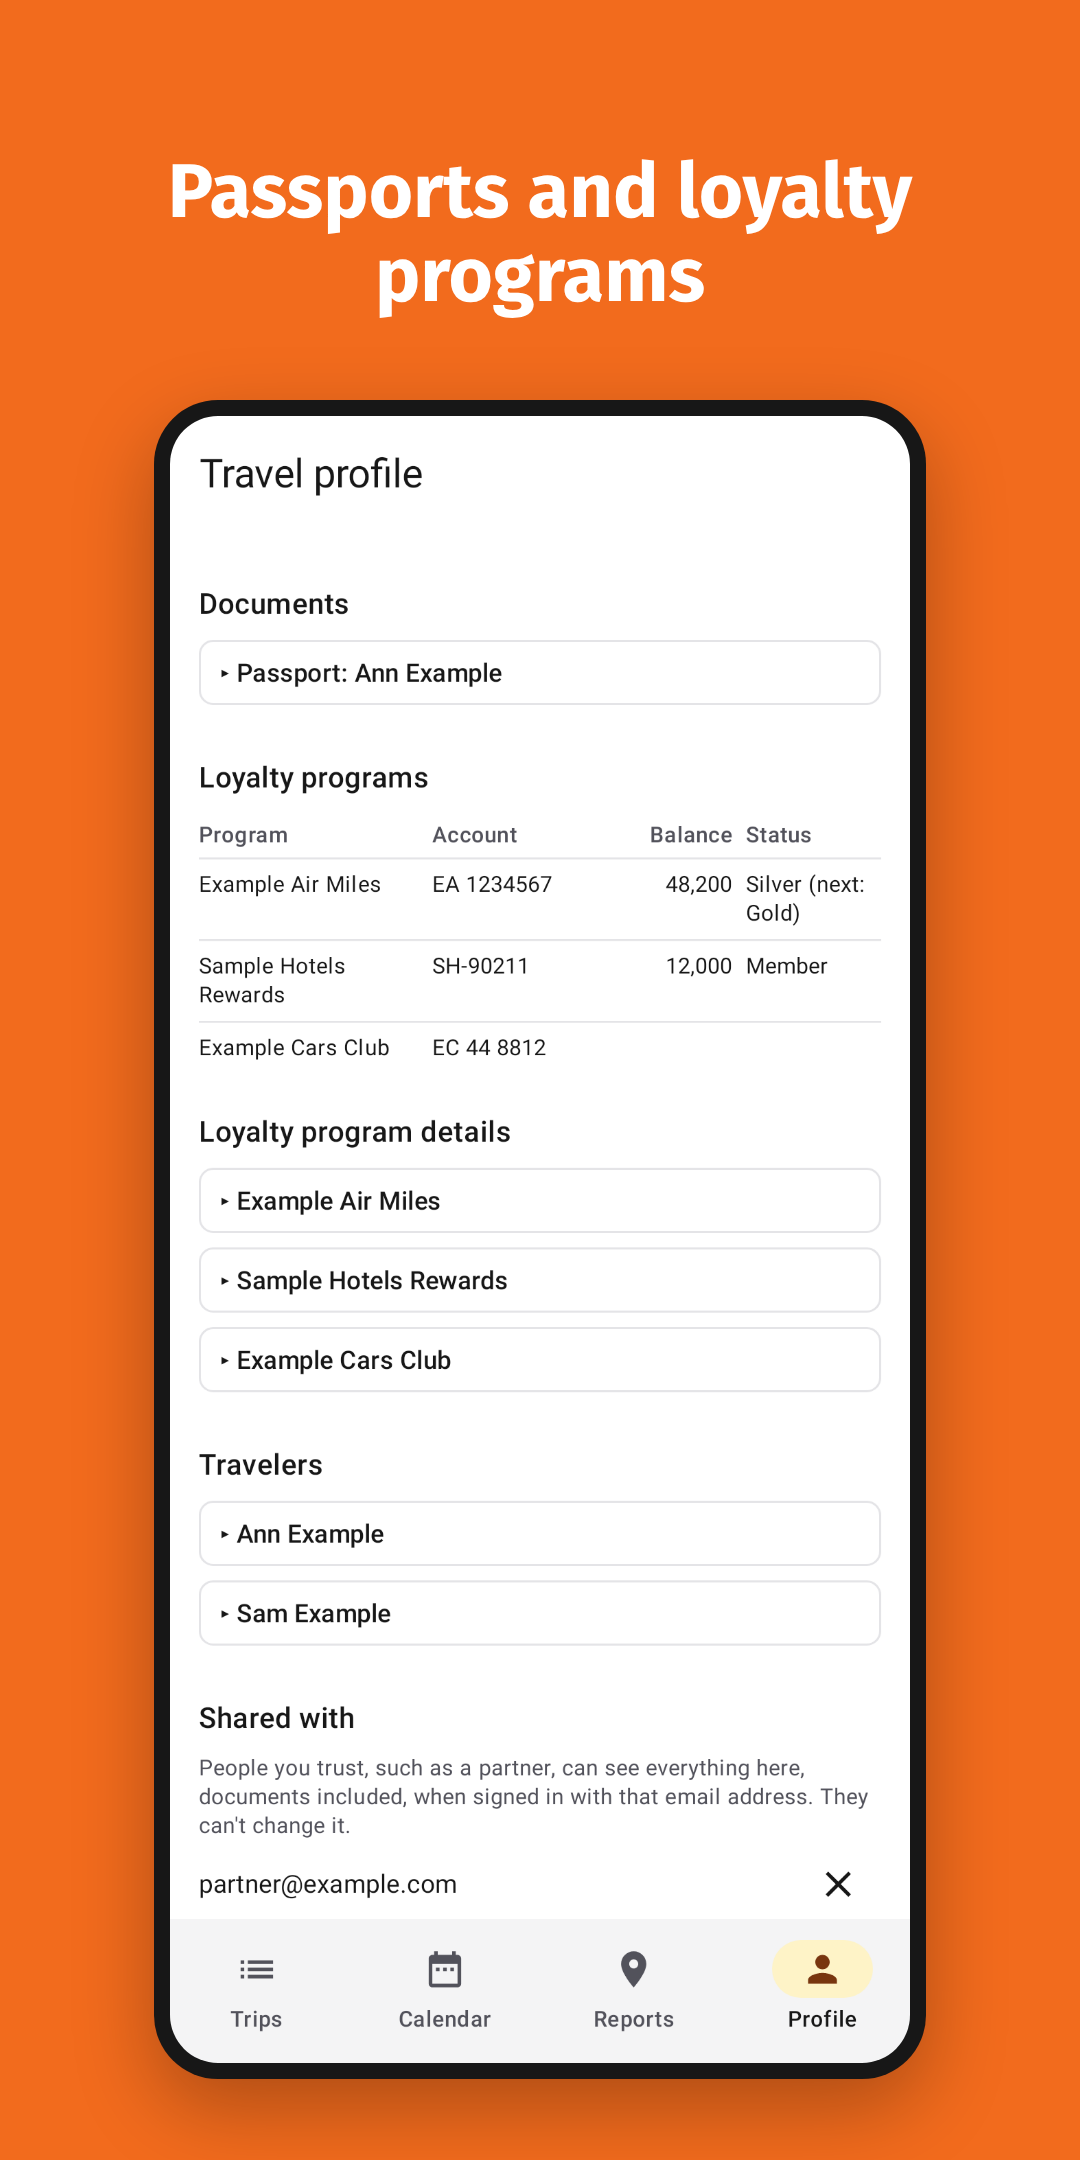
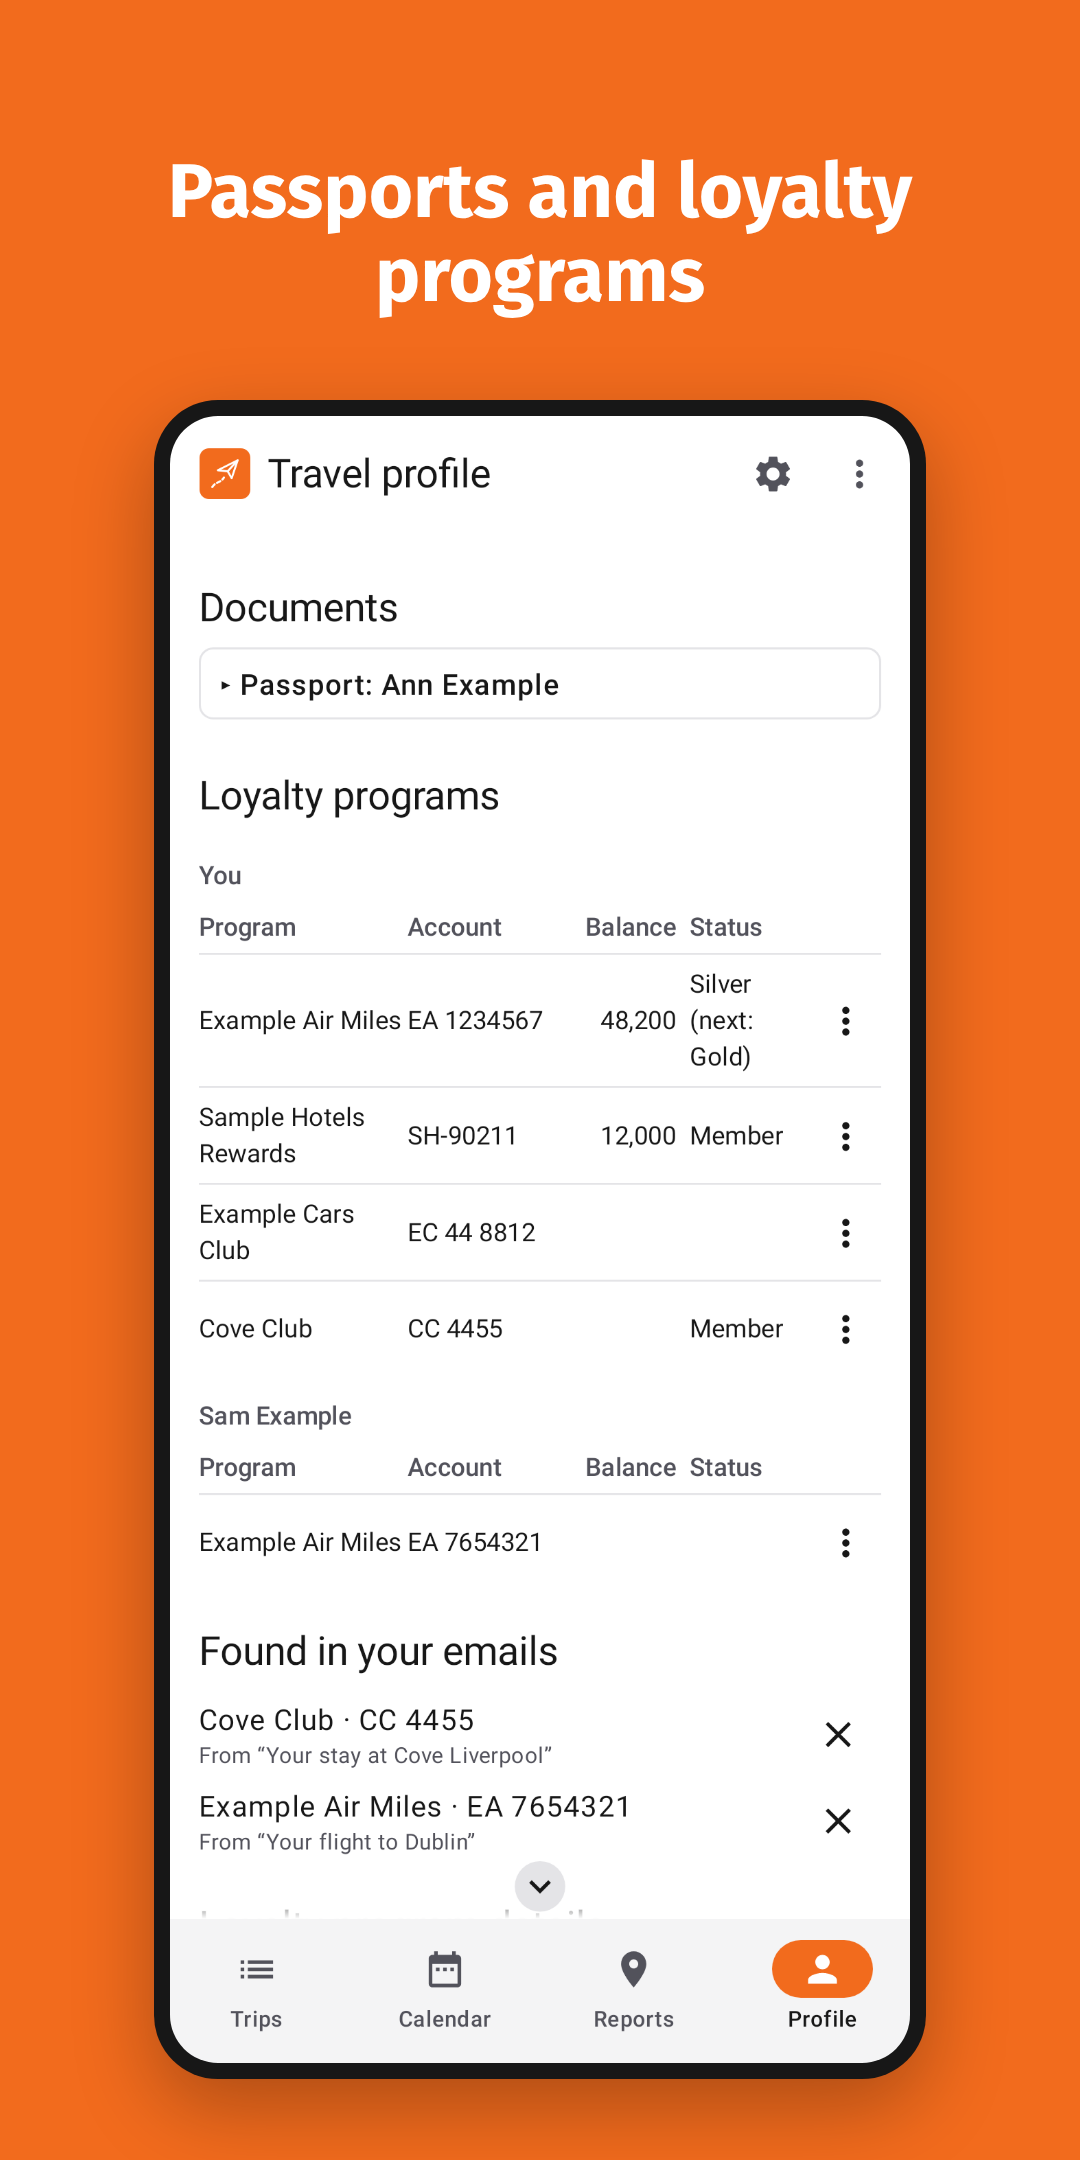
Refresh the Play screenshots, with a trip to Paris
The listing's screenshots predated the orange tab, the logo in every top
bar and the Settings gear on every tab. They now match the app.

The shared trip they show was Edinburgh, a UK trip with a passport
warning that made no sense. It is now Paris, with an Air France flight
from Heathrow and a hotel in France; the March trip that was Paris is
Amsterdam, and the residence test that needed a booking with no place
brings its own.

Claude-Session: https://claude.ai/code/session_016zevajYPsBSWPhGmx6eWLR

diff --git a/apps/android/app/src/test/kotlin/app/travelmo/ui/ResidenceDaysTest.kt b/apps/android/app/src/test/kotlin/app/travelmo/ui/ResidenceDaysTest.kt
@@ -13,6 +13,9 @@ import androidx.compose.ui.test.performClick
 import androidx.compose.ui.test.performScrollTo
 import androidx.test.ext.junit.runners.AndroidJUnit4
 import app.travelmo.core.HomeCorrection
+import app.travelmo.core.Segment
+import app.travelmo.core.SegmentType
+import app.travelmo.core.Trip
 import app.travelmo.data.RideSettings
 import app.travelmo.ui.theme.TravelmoTheme
 import kotlin.time.Instant
@@ -35,8 +38,8 @@ class ResidenceDaysTest {
 
     @Test
     fun `counts time away for UK settlement and days in for Schengen, from home and the trips`() {
-        // Without the Edinburgh stay, whose booking names no place.
-        val store = FakeTripStore(trips = fixtureTrips.filter { it.id != "edinburgh" })
+        // Without the Paris trip, under way.
+        val store = FakeTripStore(trips = fixtureTrips.filter { it.id != "paris" })
         store.rides.value = RideSettings(homes = listOf(HomeCorrection("London", "GB", "2020-01-01")))
         show(store)
         composeRule.onNodeWithText("Residence and visa days").performScrollTo()
@@ -51,20 +54,23 @@ class ResidenceDaysTest {
 
     @Test
     fun `counts UK settlement from the move to the UK and lists the days it can't place`() {
-        // The Edinburgh stay's booking names no place.
-        val store = FakeTripStore()
+        // A weekend whose stay names no place.
+        val store = FakeTripStore(
+            trips = fixtureTrips + Trip("weekend", "Weekend away", "2026-10-09", "2026-10-11", OWNER),
+            segments = fixtureSegments + ("weekend" to listOf(Segment("w-stay", "weekend", SegmentType.LODGING, "Example Inn", "2026-10-09T15:00:00+00:00", "2026-10-11T11:00:00+00:00"))),
+        )
         store.rides.value = RideSettings(homes = listOf(HomeCorrection("London", "GB", "2024-03-03")))
         show(store)
         composeRule.onNodeWithText("Since you moved to the UK on 3 Mar 2024").performScrollTo()
         composeRule.onNodeWithText("Days we can't place").performScrollTo()
         // Listed there, and as time away.
-        composeRule.onAllNodesWithText("31 Oct – 1 Nov 2026 · 2 days · Edinburgh").assertCountEquals(2)
+        composeRule.onAllNodesWithText("9–11 Oct 2026 · 3 days · Weekend away").assertCountEquals(2)
         composeRule.onNodeWithText("Give these trips' bookings a place, or set home on your Profile.").performScrollTo()
     }
 
     @Test
     fun `counts to a day picked instead of today`() {
-        val store = FakeTripStore(trips = fixtureTrips.filter { it.id != "edinburgh" })
+        val store = FakeTripStore(trips = fixtureTrips.filter { it.id != "paris" })
         store.rides.value = RideSettings(homes = listOf(HomeCorrection("London", "GB", "2020-01-01")))
         show(store)
         composeRule.onNodeWithText("4 of 180 days · 176 days left").performScrollTo()

diff --git a/apps/android/app/src/test/kotlin/app/travelmo/ui/Fixtures.kt b/apps/android/app/src/test/kotlin/app/travelmo/ui/Fixtures.kt
@@ -70,7 +70,7 @@ import kotlinx.coroutines.flow.update
 
 // The invented trips of design/android's boards, as the screenshot tests
 // render them: the owner is "owner", today is 1 November 2026, and the
-// Edinburgh trip is someone else's, shared with the owner.
+// Paris trip is someone else's, shared with the owner.
 
 const val OWNER = "owner"
 const val OWNER_EMAIL = "owner@example.com"
@@ -80,12 +80,12 @@ private fun trip(id: String, title: String, start: String, end: String, owner: S
     Trip(id, title, start, end, owner, sharedWith = if (owner == OWNER) emptyList() else listOf(OWNER_EMAIL), deleting = deleting)
 
 val fixtureTrips = listOf(
-    trip("edinburgh", "Edinburgh", "2026-10-31", "2026-11-03", owner = "partner"),
+    trip("paris", "Paris", "2026-10-31", "2026-11-03", owner = "partner"),
     trip("dublin", "Dublin", "2026-11-28", "2026-12-02"),
     trip("liverpool", "Liverpool", "2026-12-12", "2026-12-14"),
     trip("lisbon", "Lisbon", "2026-09-14", "2026-09-19"),
     trip("cornwall", "Cornwall", "2026-08-01", "2026-08-05", deleting = true),
-    trip("paris", "Paris", "2026-03-20", "2026-03-22"),
+    trip("amsterdam", "Amsterdam", "2026-03-20", "2026-03-22"),
 )
 
 // A trip under way with a flight leaving in three hours (15:00Z), and the
@@ -147,8 +147,16 @@ val fixtureStaySources = listOf(
 )
 
 val fixtureSegments: Map<String, List<Segment>> = mapOf(
-    "edinburgh" to listOf(
-        Segment("e-stay", "edinburgh", SegmentType.LODGING, "Grassmarket Hotel", "2026-10-31T15:00:00+00:00", "2026-11-03T11:00:00+00:00", provider = "Grassmarket", confirmation = "GM-2210"),
+    "paris" to listOf(
+        Segment(
+            "p-flight", "paris", SegmentType.FLIGHT, "AF 1081 LHR to CDG", "2026-10-31T09:15:00+00:00", "2026-10-31T11:35:00+01:00",
+            provider = "Air France", confirmation = "AF7K2M", origin = Place("London Heathrow", code = "LHR", city = "London", country = "GB"),
+            destination = Place("Paris Charles de Gaulle", code = "CDG", city = "Paris", country = "FR"),
+        ),
+        Segment(
+            "p-stay", "paris", SegmentType.LODGING, "Hôtel du Marais", "2026-10-31T15:00:00+01:00", "2026-11-03T11:00:00+01:00", provider = "Hôtel du Marais", confirmation = "HM-2210",
+            destination = Place("Hôtel du Marais", city = "Paris", country = "FR"),
+        ),
     ),
     "dublin" to listOf(
         Segment(

diff --git a/apps/android/app/src/test/kotlin/app/travelmo/ui/ScreenScreenshotTest.kt b/apps/android/app/src/test/kotlin/app/travelmo/ui/ScreenScreenshotTest.kt
@@ -392,7 +392,7 @@ class ScreenScreenshotTest {
     @Test
     fun trip_detail_shared_dark() {
         val viewModel = viewModel()
-        capture("trip_detail_shared_dark", dark = true) { TripDetailScreen(viewModel = viewModel, tripId = "edinburgh", uid = OWNER, onBack = {}, onAddBooking = {}, onEditBooking = {}, onMerged = {}) }
+        capture("trip_detail_shared_dark", dark = true) { TripDetailScreen(viewModel = viewModel, tripId = "paris", uid = OWNER, onBack = {}, onAddBooking = {}, onEditBooking = {}, onMerged = {}) }
     }
 
     // The stay's Sources, from its ⋮ menu: the owner's own emails link into
@@ -490,7 +490,7 @@ class ScreenScreenshotTest {
     @Test
     fun trip_manage() {
         val viewModel = viewModel()
-        capture("trip_manage") { TripDetailScreen(viewModel = viewModel, tripId = "paris", uid = OWNER, onBack = {}, onAddBooking = {}, onEditBooking = {}, onMerged = {}) }
+        capture("trip_manage") { TripDetailScreen(viewModel = viewModel, tripId = "amsterdam", uid = OWNER, onBack = {}, onAddBooking = {}, onEditBooking = {}, onMerged = {}) }
     }
 
     @Test
@@ -502,7 +502,7 @@ class ScreenScreenshotTest {
     @Test
     fun trip_detail_shared() {
         val viewModel = viewModel()
-        capture("trip_detail_shared") { TripDetailScreen(viewModel = viewModel, tripId = "edinburgh", uid = OWNER, onBack = {}, onAddBooking = {}, onEditBooking = {}, onMerged = {}) }
+        capture("trip_detail_shared") { TripDetailScreen(viewModel = viewModel, tripId = "paris", uid = OWNER, onBack = {}, onAddBooking = {}, onEditBooking = {}, onMerged = {}) }
     }
 
     @Test

diff --git a/apps/android/app/src/test/kotlin/app/travelmo/ui/TripsViewModelTest.kt b/apps/android/app/src/test/kotlin/app/travelmo/ui/TripsViewModelTest.kt
@@ -152,9 +152,9 @@ class TripsViewModelTest {
         viewModel.outcomes.value shouldBe mapOf("rename" to Outcome.Done)
         store.renamed shouldBe listOf("liverpool" to "Merseyside")
         viewModel.mergeTrips("merge", "dublin", "liverpool")
-        viewModel.deleteTrip("delete", "paris")
+        viewModel.deleteTrip("delete", "amsterdam")
         store.merged shouldBe listOf("dublin" to "liverpool")
-        store.deletedTrips shouldBe listOf("paris")
+        store.deletedTrips shouldBe listOf("amsterdam")
     }
 
     @Test

diff --git a/apps/android/app/src/test/kotlin/app/travelmo/ui/TripListScreenTest.kt b/apps/android/app/src/test/kotlin/app/travelmo/ui/TripListScreenTest.kt
@@ -93,7 +93,7 @@ class TripListScreenTest {
         search.performTextClearance()
         search.performTextInput("March 2026")
         composeRule.waitForIdle()
-        composeRule.onNodeWithText("Paris").assertExists()
+        composeRule.onNodeWithText("Amsterdam").assertExists()
         composeRule.onNodeWithText("Dublin").assertDoesNotExist()
 
         search.performTextClearance()
